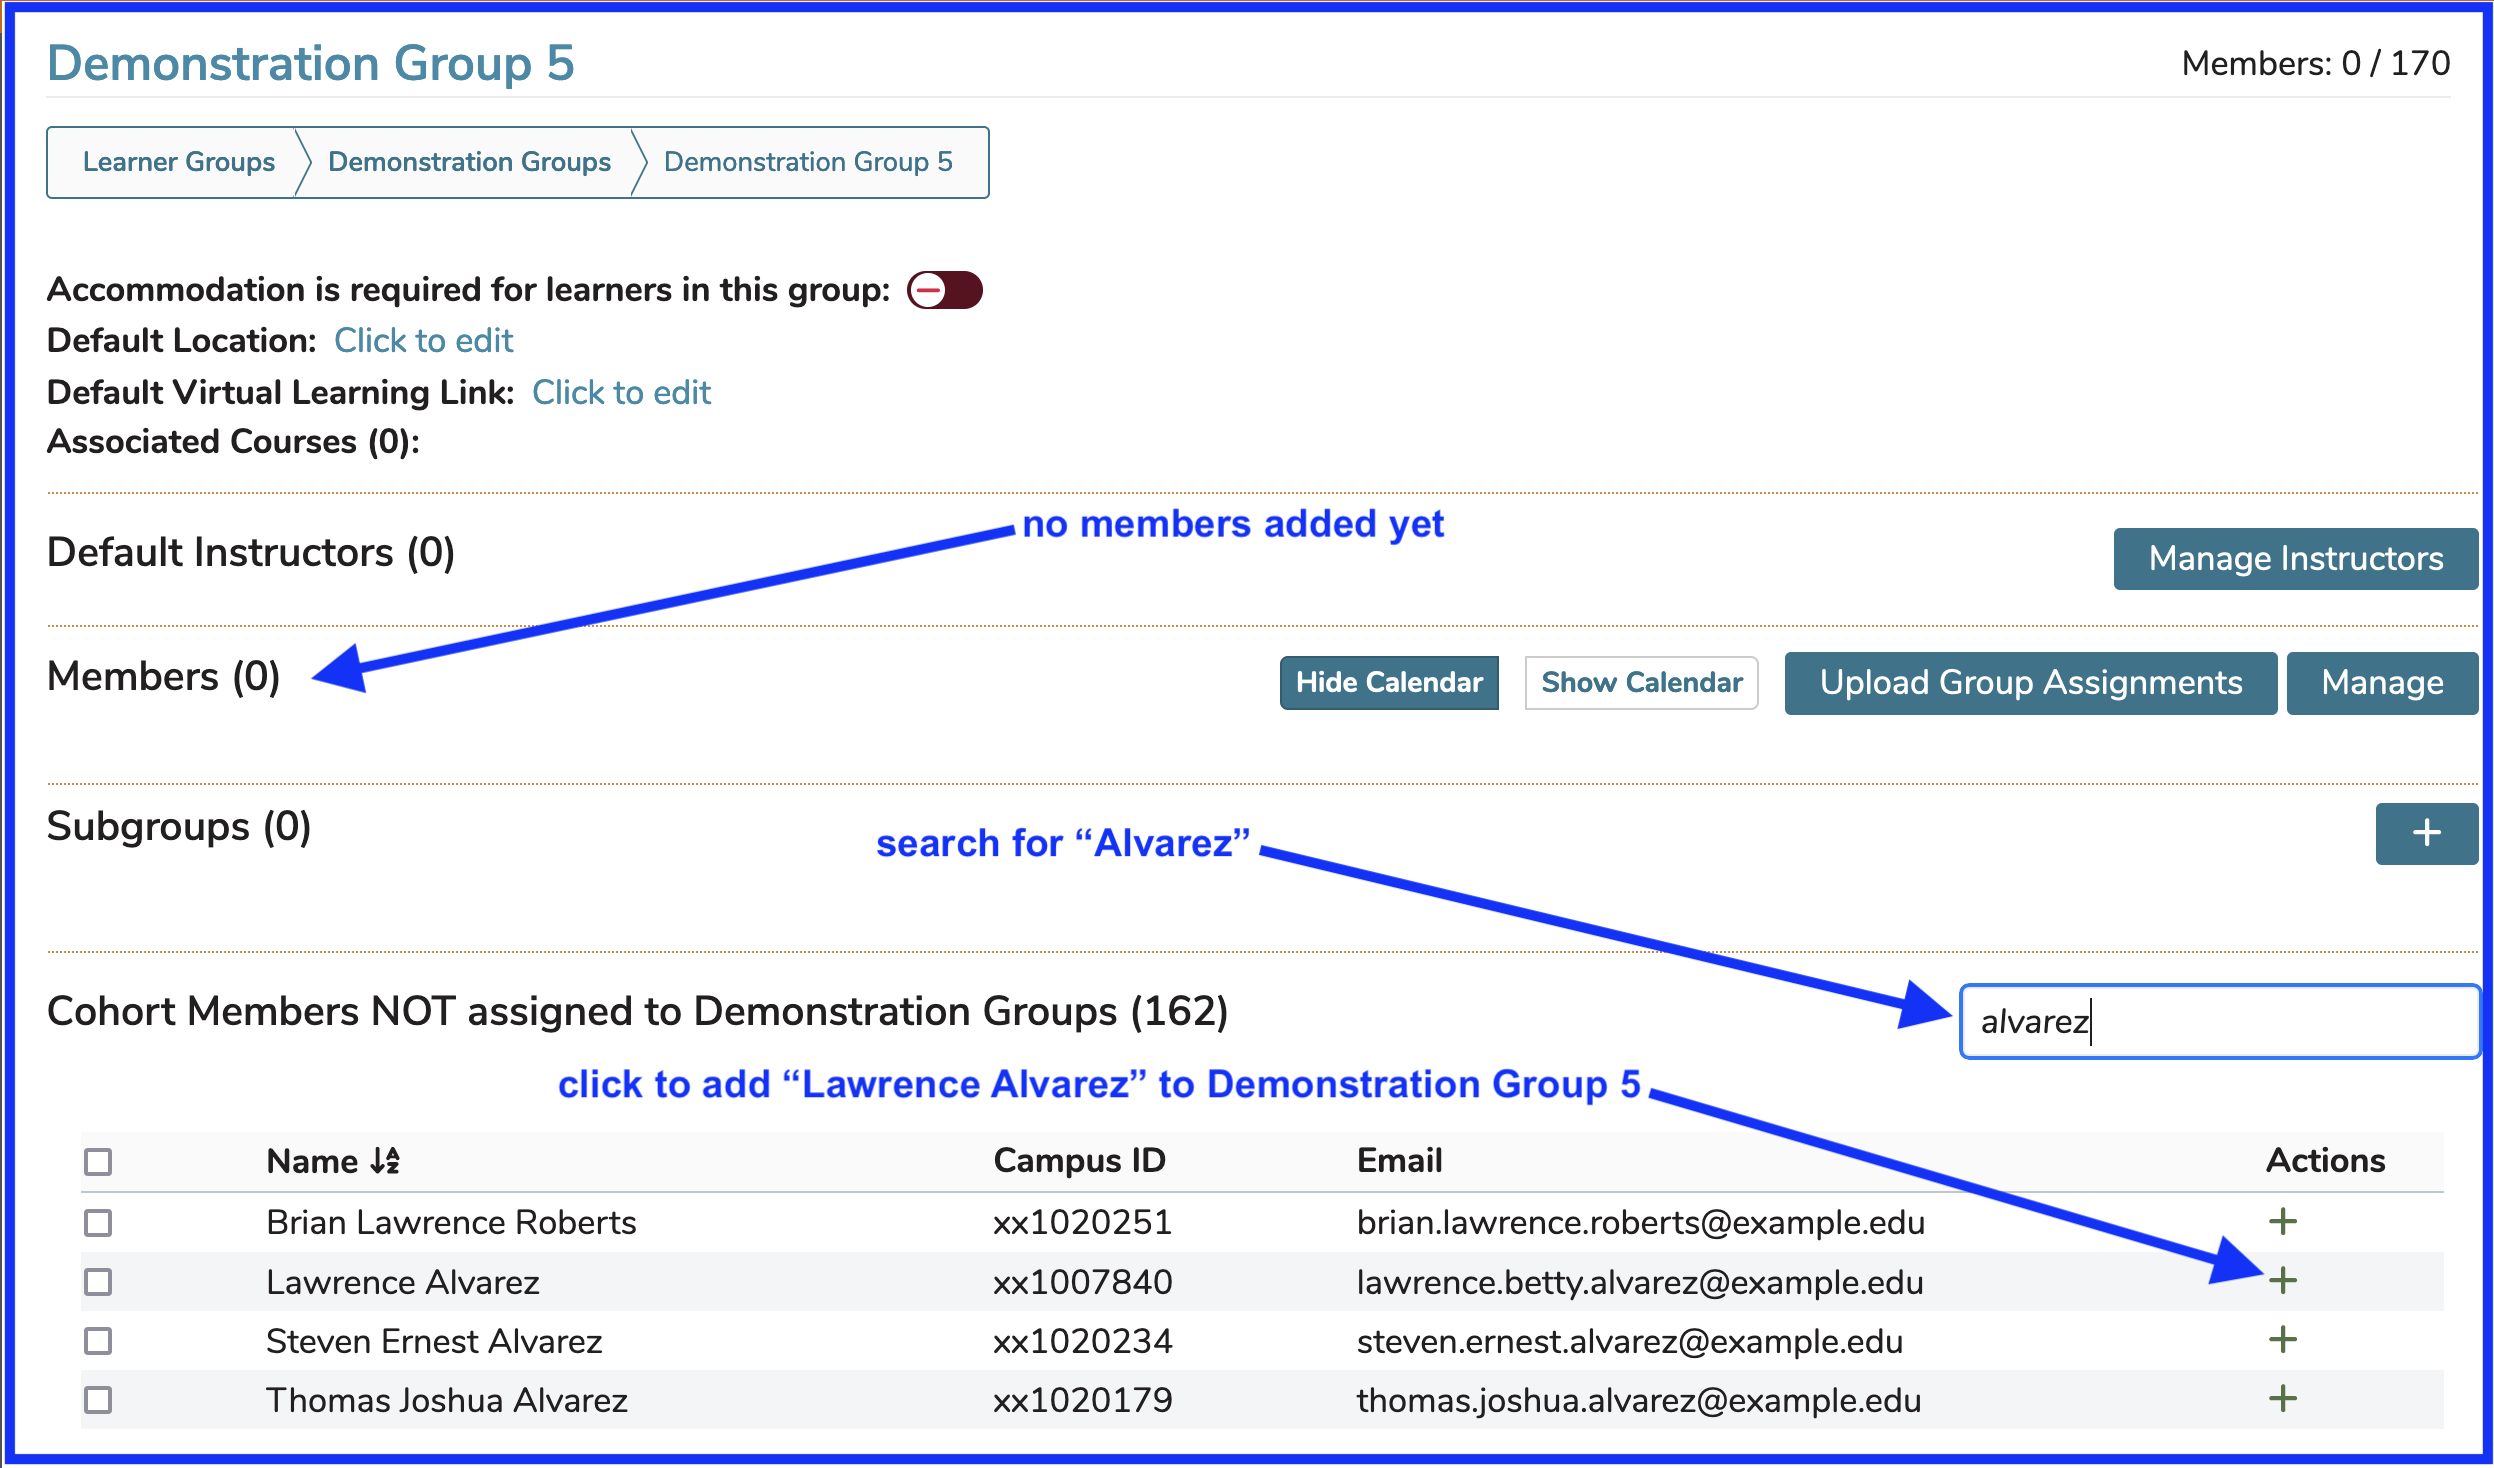
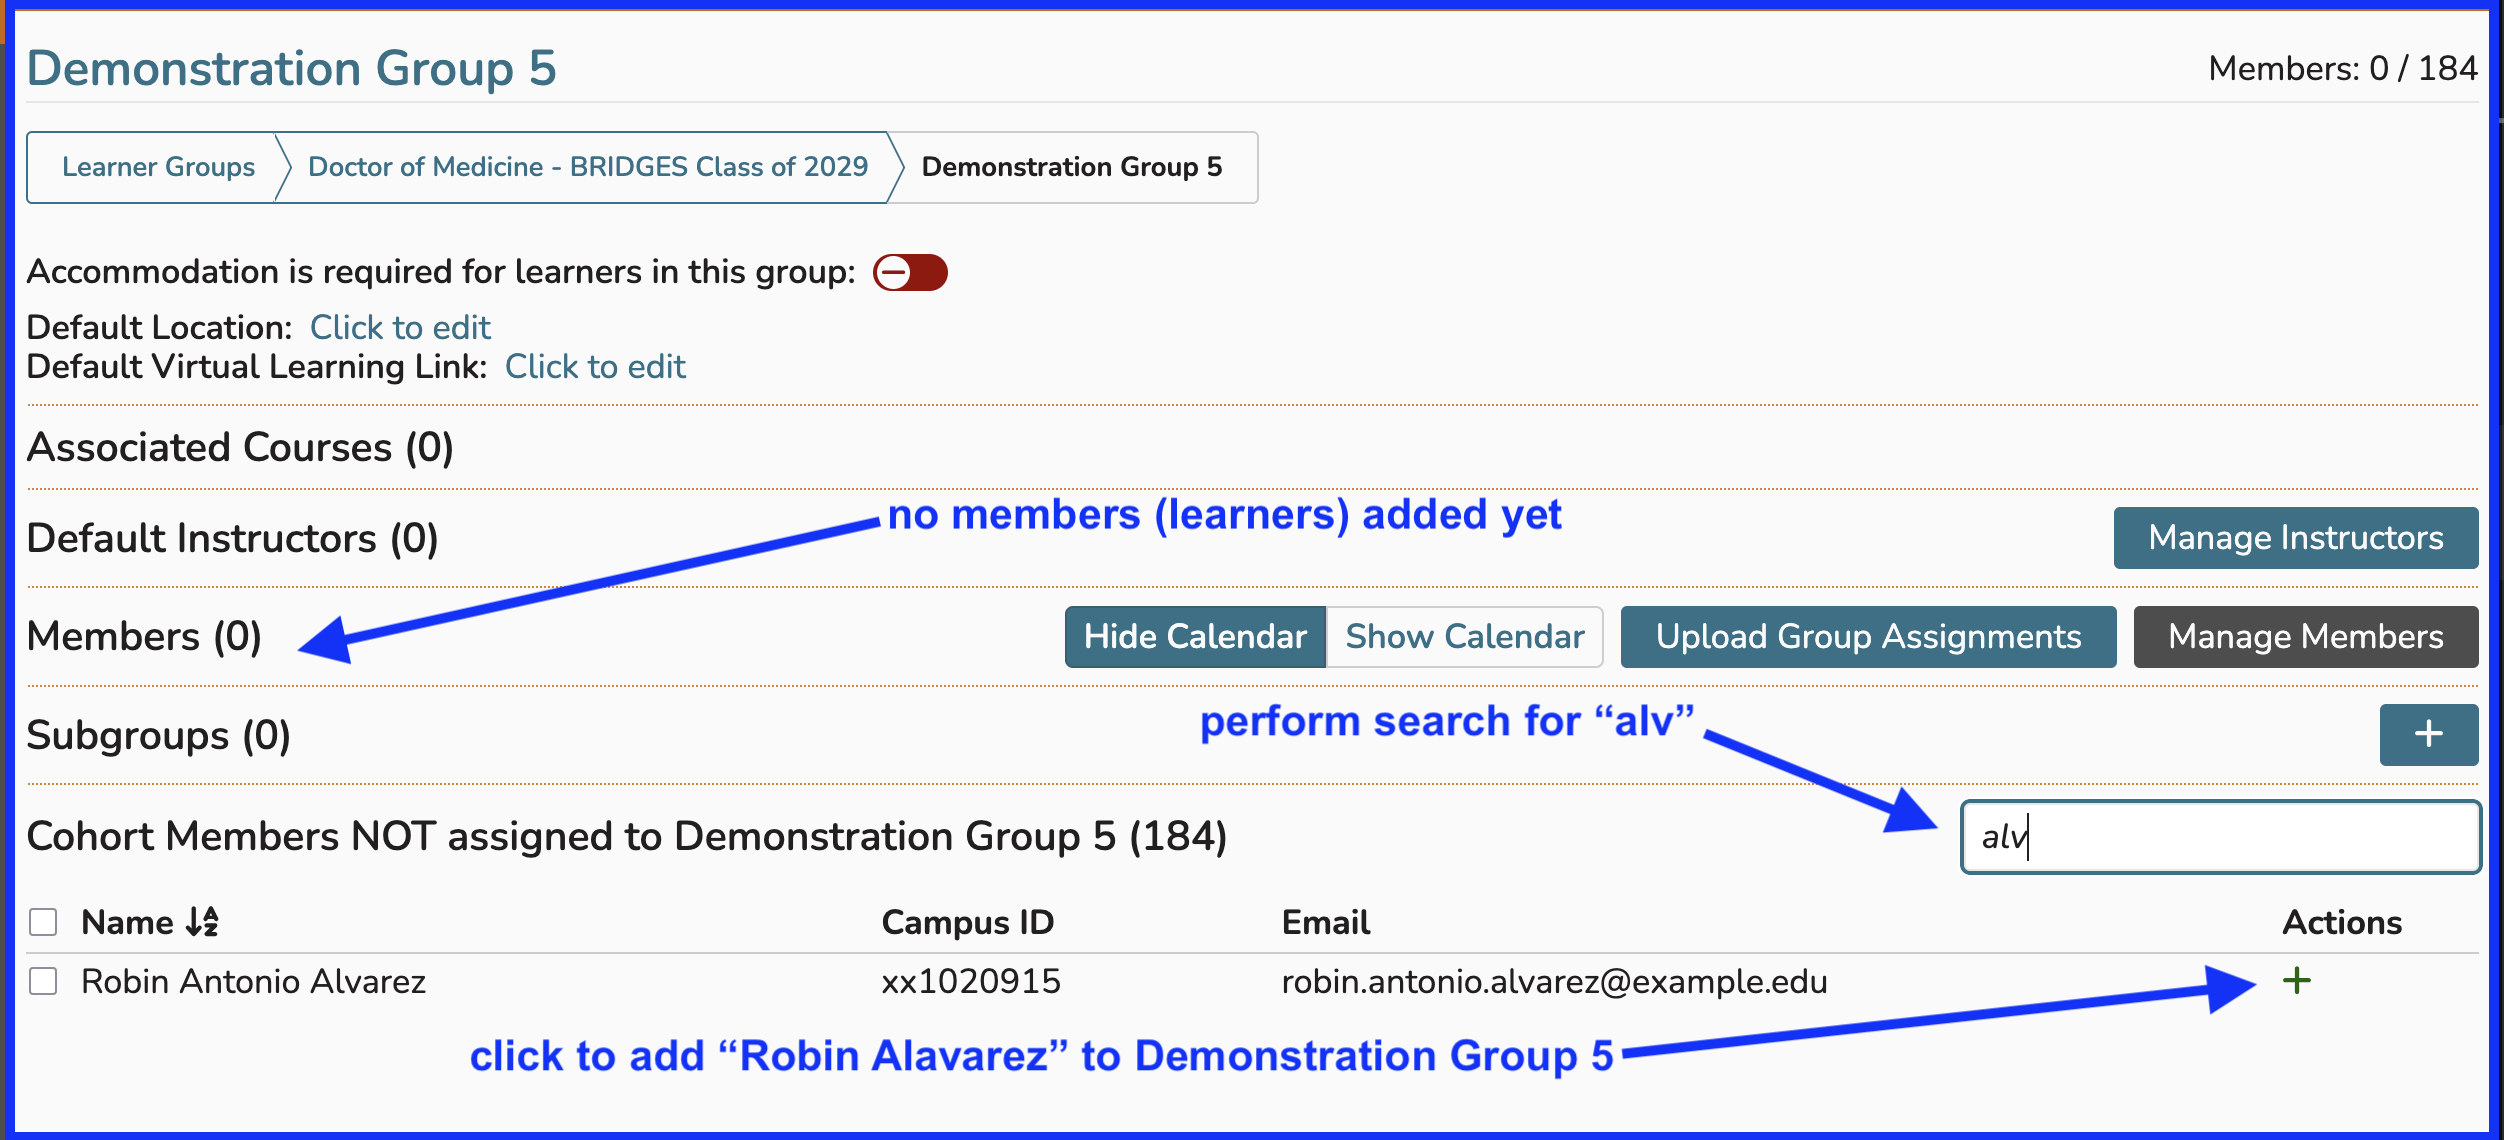
text added - image replaced

diff --git a/learner-groups/edit-group-properties/edit-group-membership.md b/learner-groups/edit-group-properties/edit-group-membership.md
@@ -2,11 +2,11 @@
 
 ### Individual Learner
 
-In this example, there are no Learners in the group "Demonstration Group 5". The learner "Lawrence Alvarez" needs to be added to the group. This can be accomplished as shown below.
+In this example, there are no Learners in the group "Demonstration Group 5". The learner "Robin Alvarez" needs to be added to the group. This can be accomplished as shown below.
 
 ![no learners yet](../../images/edit_learner_group/group_membership/no_learners_yet.png)
 
-Once the green (+) has been clicked to add "Lawrence Alvarez" to the sub group "Demonstration Group 05", the screen updates to what is shown below and it is easy to verify the learner's enrollment in the group.
+Once the green (+) has been clicked to add "Lawrence Alvarez" to the sub group "Demonstration Group 5", the screen updates to what is shown below and it is easy to verify the learner's enrollment in the group.
 
 ![added to the learner group](../../images/edit_learner_group/group_membership/learner_added.png)
 
